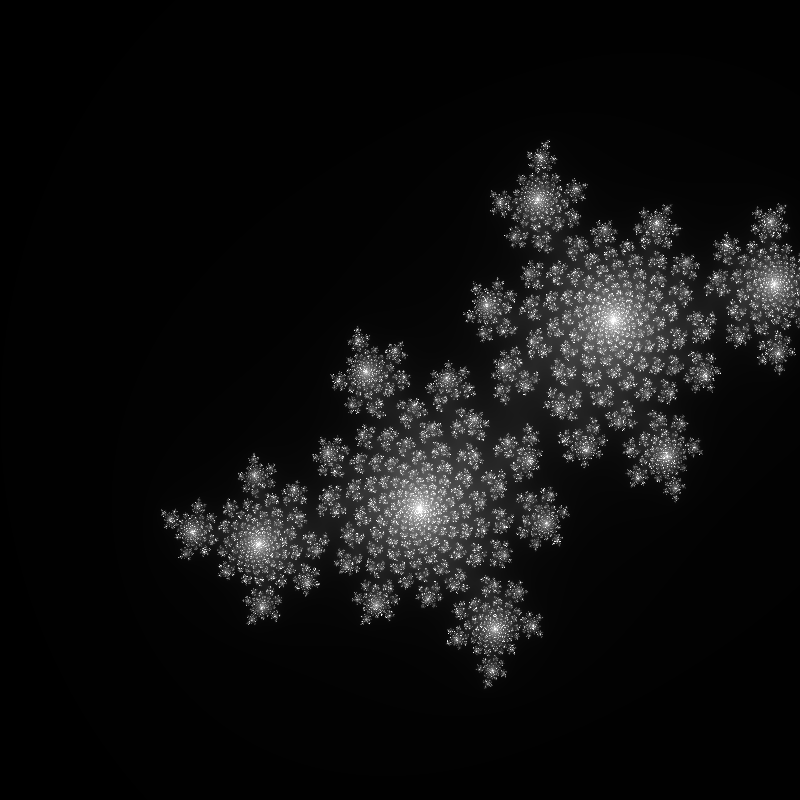
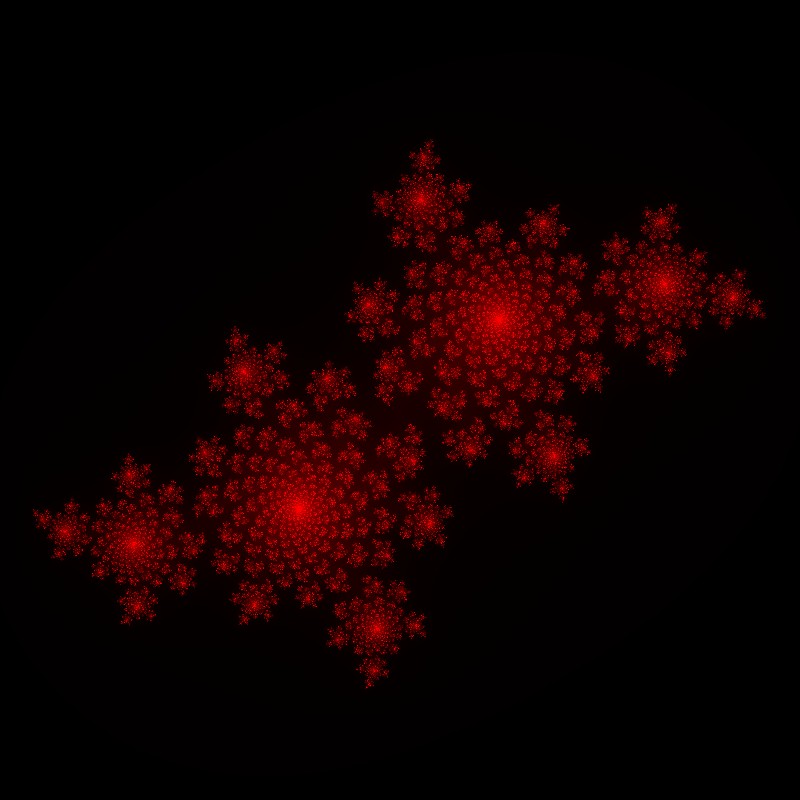
julia tweaks

Changed region(s): [[0.0312, 0.1875, 1.0, 0.875]]

diff --git a/julia-image/src/main.rs b/julia-image/src/main.rs
@@ -1,5 +1,6 @@
 use image::{ImageBuffer, Rgb};
 use nalgebra::{Complex, Normed};
+use rand::Rng;
 
 fn julia(c: Complex<f64>, x: f64, y: f64) -> u8 {
     let mut z = Complex::new(x, y);
@@ -23,12 +24,15 @@ fn main() {
     let c = Complex::new(-0.4, 0.6);
 
     for (x, y, pixel) in img.enumerate_pixels_mut() {
-        let x = x as f64 / width as f64 * 3.1 - 2.0;
+        let x = x as f64 / width as f64 * 3.01 - 1.5;
         let y = y as f64 / height as f64 * 2.9 - 1.5;
 
         let intensity = julia(c, x, y);
+        let red = intensity;
+        let green = rand::thread_rng().gen_range(0.0..1.0);
+        let blue = rand::thread_rng().gen_range(0.0..1.0);
 
-        *pixel = Rgb([intensity, intensity, intensity]);
+        *pixel = Rgb([red, green as u8, blue as u8]);
     }
 
     img.save("julia.png").unwrap();
